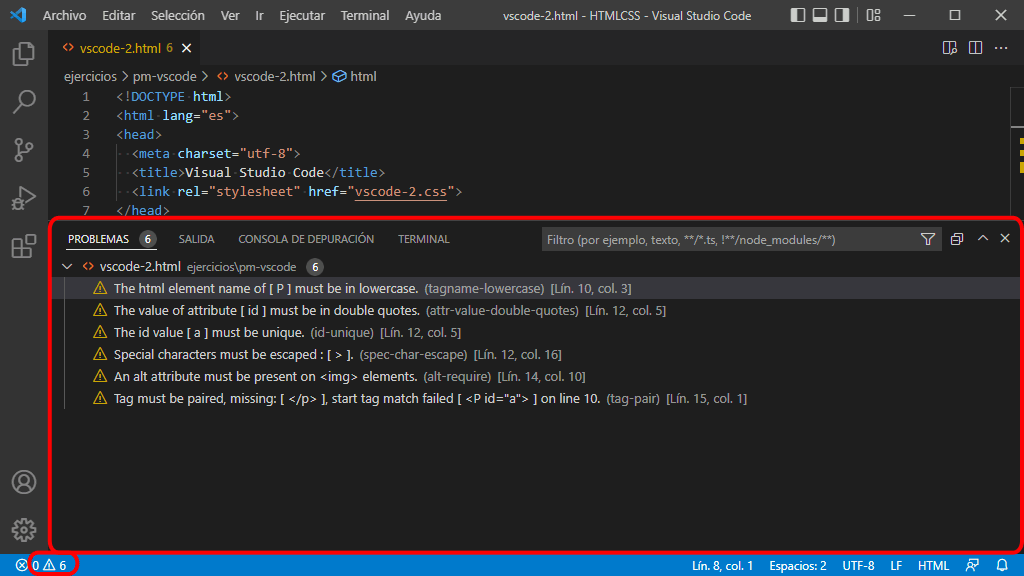
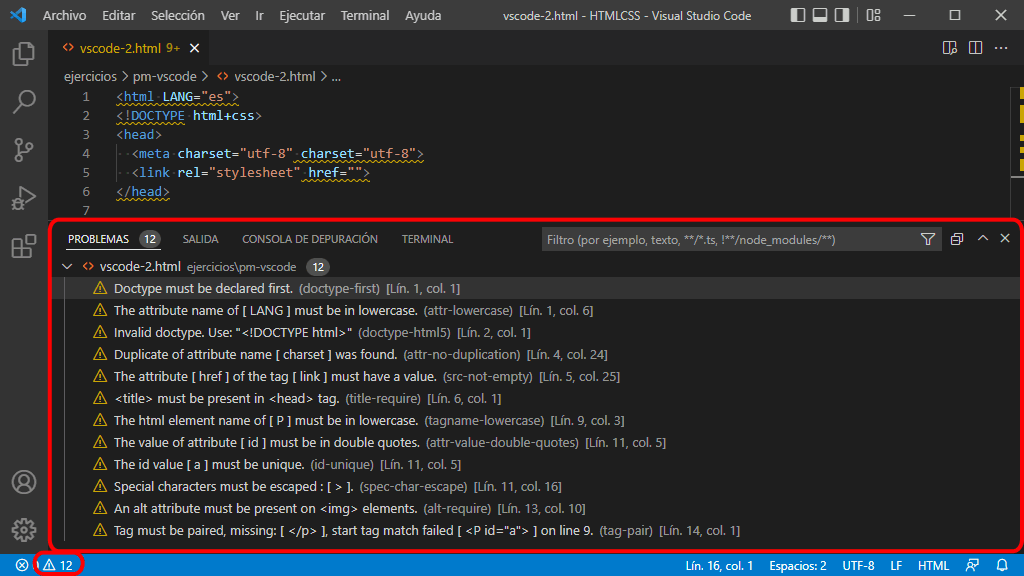
VSC Ejercicios Puesta en marcha: añado capturas

diff --git a/ejercicios/puesta-en-marcha/vscode/index.html b/ejercicios/puesta-en-marcha/vscode/index.html
@@ -70,7 +70,7 @@
   </section>
 
   <section id="ejercicio-1-b">
-    <h2>VS Code 1 A - Abrir páginas con Live Preview</h2>
+    <h2>VS Code 1 B - Abrir páginas con Live Preview</h2>
 
     <ol>
       <li>Abra en Visual Studio Code la página <strong>vscode-1.html</strong>.</li>
@@ -83,7 +83,7 @@
       <li>Compruebe que la dirección de la página es <strong>http://127.0.0.1:3000/ejercicios/pm-vscode/vscode-1.html</strong> o similar.</li>
       <li>Añada algo de texto a la página web y compruebe que aunque no guarde el fichero, en el navegador la vista se actualiza continuamente.
         <p class="mcl-captura">
-          <img src="../../../img/ejercicios/puesta-en-marcha/pm-vscode-live-preview-1.png" alt="VSC. Extensión Live Preview" width="1024" height="300">
+          <img src="../../../img/ejercicios/puesta-en-marcha/pm-vscode-live-preview-2.png" alt="VSC. Extensión Live Preview" width="1024" height="576">
         </p>
         <p>Lógicamente, Visual Studio Code mostrará un aviso de error hasta que escribamos la etiqueta de cierre <span class="html-eti">&lt;/p&gt;</span>.</p>
       </li>
@@ -94,7 +94,12 @@
     <h2>VS Code 2 - Extensión HTMLHint</h2>
 
     <ol>
-      <li>Cree en Visual Studio Code la página <strong>vscode-2.html</strong> en la carpeta .</li>
+      <li>Cree en Visual Studio Code la página <strong>vscode-2.html</strong> en la carpeta <strong>pm-vscode</strong>.</li>
+      <li>Comprube el fichero creado aparece en su posición correcta:
+        <p class="mcl-captura">
+          <img src="../../../img/ejercicios/puesta-en-marcha/pm-vscode-htmlhint-1.png" alt="VSC. Errores HTMLHint" width="1024" height="400">
+        </p>
+      </li>
       <li>Copie y pegue el siguiente código HTML en la página <strong>vscode-2.html</strong>:
         <div class="codigo">
           <pre>
@@ -117,15 +122,15 @@
 </pre>
         </div>
       </li>
-      <li>Compruebe que en la barra lateral inferior el indicador de error indica la existencia de 13 avisos. Haga clic en él para ver los errores detectados.
+      <li>Compruebe que en la barra lateral inferior el indicador de error indica la existencia de 12 avisos. Haga clic en él para ver los errores detectados.
         <p class="mcl-captura">
-          <img src="../../../img/ejercicios/puesta-en-marcha/pm-vscode-htmlhint-1.png" alt="VSC. Errores HTMLHint" width="1024" height="576">
+          <img src="../../../img/ejercicios/puesta-en-marcha/pm-vscode-htmlhint-2.png" alt="VSC. Errores HTMLHint" width="1024" height="576">
         </p>
         <p>Si no se muestran los 12 avisos, compruebe que la extensión HTMLHint está instalada y revise la configuración de la extensión HTMLHint, como se explica en la lección <a href="../../../otros/vsc-htmlcss-configuracion.html#htmlhint">Configuración de Visual Studio Code</a>.</p>
       </li>
       <li>Corrija algunos de los errores y compruebe que van desapareciendo de la lista a medida que se van corrigiendo:
         <p class="mcl-captura">
-          <img src="../../../img/ejercicios/puesta-en-marcha/pm-vscode-htmlhint-2.png" alt="VSC. Errores HTMLHint" width="1024" height="576">
+          <img src="../../../img/ejercicios/puesta-en-marcha/pm-vscode-htmlhint-3.png" alt="VSC. Errores HTMLHint" width="1024" height="576">
         </p>
       </li>
     </ol>
@@ -155,7 +160,7 @@ a { }
         </div>
       </li>
       <li>Compruebe que en la barra lateral inferior el indicador de error indica la existencia de 7 errores y avisos como mínimo. Haga clic en él para ver los errores detectados.
-        <p>El número de avisos puede ser mayor si incluye también los avisos del fichero vscode-2.html del ejercicio anterior. En general, Visual Studio Code muestra los avisos correspondientes a todos los ficheros que se han ido abriendo. Si cierra toda las pestañas de documentos con errores y cierra y abre Visual Studio Code desaparecerán los mensajes de error.</p>
+        <p><strong>Nota</strong>: El número de avisos puede ser mayor si incluye también los avisos del fichero vscode-2.html del ejercicio anterior. En general, Visual Studio Code muestra los avisos correspondientes a todos los ficheros que se han ido abriendo. Si cierra toda las pestañas de documentos con errores y cierra y abre Visual Studio Code, desaparecerán los mensajes de error hasta que vuelva a abrirlos.</p>
         <p class="mcl-captura">
           <img src="../../../img/ejercicios/puesta-en-marcha/pm-vscode-csslint-1.png" alt="VSC. Errores CSS Lint" width="1024" height="576">
         </p>
@@ -171,15 +176,15 @@ a { }
       <li>Borre la etiqueta de cierre <span class="html-eti">&lt;/p&gt;</span> (línea 13).</li>
       <li>Compruebe que en la barra lateral inferior el indicador de error indica la existencia de un error. Haga clic en él para ver el error detectado. Compruebe que efectivamente señala la ausencia del cierre de la etiqueta <span class="html-eti">&lt;p&gt;</span>
         <p class="mcl-captura">
-          <img src="../../../img/ejercicios/puesta-en-marcha/pm-vscode-close-html-tag-1.png" alt="VSC. Error HTMLHint" width="1024" height="300">
+          <img src="../../../img/ejercicios/puesta-en-marcha/pm-vscode-close-html-tag-1.png" alt="VSC. Error Close HTML/XML Tag" width="1024" height="300">
         </p>
         <p>Si no se muestra el error, compruebe que la extensión HTMLHint está instalada y revise la configuración de la extensión HTMLHint, como se explica en la lección <a href="../../../otros/vsc-htmlcss-configuracion.html#htmlhint">Configuración de Visual Studio Code</a>.</p>
       </li>
       <li>Corrija el error situando el cursor al final del párrafo y pulsando el atajo de teclado <span class="soft-atajo-teclado">Alt+.</span>. Compruebe que se añade el cierre de la etiqueta <span class="html-eti">&lt;/p&gt;</span>. Compruebe que el indicador de error ya no muestra ningún error.
         <p class="mcl-captura">
-          <img src="../../../img/ejercicios/puesta-en-marcha/pm-vscode-close-html-tag-2.png" alt="VSC. Error HTMLHint" width="1024" height="300">
+          <img src="../../../img/ejercicios/puesta-en-marcha/pm-vscode-close-html-tag-2.png" alt="VSC. Error Close HTML/XML Tag" width="1024" height="300">
         </p>
-        <p>Si no se añade la etiqueta , compruebe que la extensión Close HTML/XML Tag está instalada y revise la configuración de la extensión Close HTML/XML Tag, como se explica en la lección <a href="../../../otros/vsc-htmlcss-configuracion.html#close-html-xml-tag">Configuración de Visual Studio Code</a>.</p>
+        <p>Si no se añade la etiqueta, compruebe que la extensión Close HTML/XML Tag está instalada y revise la configuración de la extensión Close HTML/XML Tag, como se explica en la lección <a href="../../../otros/vsc-htmlcss-configuracion.html#close-html-xml-tag">Configuración de Visual Studio Code</a>.</p>
       </li>
     </ol>
   </section>
@@ -189,12 +194,26 @@ a { }
 
     <ol>
       <li>Abra en Visual Studio Code la página <strong>vscode-5.html</strong>.</li>
-      <li>Compruebe que el texto de la línea 11 no está rodeado de etiquetas.</li>
-      <li>Seleccione el texto de la línea 11 (sin los espacios iniciales).</li>
-      <li>Pulse el atajo de teclado <span class="soft-atajo-teclado">Alt+Máy+i</span>. Compruebe que se abre un cuadro de texto en la parte superior, escriba <strong>h2</strong> y pulse Intro.
-        <p>Si la línea 11 no aparece rodeada de la etiqueta <span class="html-eti">&lt;h2&gt;</span>, compruebe que la extensión Tag Inserter está instalada.</p>
+      <li>Compruebe que el texto de la línea 11 no está rodeado de etiquetas (sin contar las etiquetas &lt;<span class="html-eti">html</span>&gt; o &lt;<span class="html-eti">body</span>&gt;).
+        <p class="mcl-captura">
+          <img src="../../../img/ejercicios/puesta-en-marcha/pm-vscode-tag-inserter-1.png" alt="VSC. Extensión Tag Inserter" width="1024" height="380">
+        </p>
+      </li>
+      <li>Seleccione el texto de la línea 11 (únicamente el texto, sin los espacios iniciales de la línea ni el salto de línea final).</li>
+      <li>Pulse el atajo de teclado <span class="soft-atajo-teclado">Alt+Máy+i</span>. Compruebe que se abre un cuadro de texto en la parte superior, escriba únicamente el nombre de la etiqueta, por ejemplo <strong>h2</strong>, y pulse Intro.
+        <p class="mcl-captura">
+          <img src="../../../img/ejercicios/puesta-en-marcha/pm-vscode-tag-inserter-2.png" alt="VSC. Error Tag Inserter" width="1024" height="380">
+        </p>
+      </li>
+      <li>Si la línea 11 no aparece rodeada de la etiqueta <span class="html-eti">&lt;h2&gt;</span>, compruebe que la extensión Tag Inserter está instalada.
+        <p class="mcl-captura">
+          <img src="../../../img/ejercicios/puesta-en-marcha/pm-vscode-tag-inserter-3.png" alt="VSC. Error Tag Inserter" width="1024" height="380">
+        </p>
       </li>
       <li>Sitúe el cursor en la etiqueta <span class="html-eti">&lt;h2&gt;</span>. Compruebe que aparece un segundo cursor en la etiqueta de cierre. Borre el nombre de la etiqueta (sin borrar las desigualdades &lt; &gt;) y corríjalo por <span class="html-eti">&lt;h1&gt;</span>. Compruebe que se cambia simultáneamente la etiqueta de cierre <span class="html-eti">&lt;/h1&gt;</span>.
+        <p class="mcl-captura">
+          <img src="../../../img/ejercicios/puesta-en-marcha/pm-vscode-tag-inserter-4.png" alt="VSC. Error Tag Inserter" width="1024" height="380">
+        </p>
         <p>Compruebe que también puede modificar ambas etiquetas editando la etiqueta de cierre.</p>
       </li>
     </ol>
@@ -216,14 +235,23 @@ a { }
           </div>
         </div>
       </li>
+      <li>Compruebe que la etiqueta &lt;<span class="html-eti">img</span>&gt; no contiene los atributos <span class="html-atri">width</span> ni <span class="html-atri">height</span>:
+        <p class="mcl-captura">
+          <img src="../../../img/ejercicios/puesta-en-marcha/pm-vscode-image-preview-emmet-1.png" alt="VSC. Atributos width y height en imagen" width="1024" height="200">
+        </p>
+      </li>
       <li>Sitúe el cursor encima del nombre de la imagen y observe como se muestra una ventana que contiene una miniatura de la imagen y su tamaño.
         <p>Si no se muestra la ventana, compruebe que la extensión Image Preview está instalada.</p>
-        <p><img src="../../../varios/iconos/icono-warning.svg" alt="¡Atención!" title="¡Atención!" width="55" height="48"><strong>Nota</strong>: Debido a cambios en Visual Studio Code, la extensión Image Preview deja de funcionar correctamente hasta que el autor publica una nueva versión corrigiendo el problema. Desafortunadamente, parece que actualmente (abril de 2022), la extensión no funciona por lo que probablemente no se vea la miniatura de la imagen.</p>
+        <p><img src="../../../varios/iconos/icono-warning.svg" alt="¡Atención!" title="¡Atención!" width="55" height="48"><strong>Nota</strong>: Debido a cambios en Visual Studio Code, la extensión Image Preview deja de funcionar correctamente hasta que el autor publica una nueva versión corrigiendo el problema. Desafortunadamente, parece que actualmente (abril de 2022), la extensión no funciona, por lo que probablemente no se vea la miniatura de la imagen.</p>
       </li>
-      <li>Haga clic en algún lugar de la etiqueta &lt;<span class="html-eti">img</span>&gt;. Pulse el atajo <span class="soft-atajo-teclado">Ctrl+Alt+e Ctrl+Alt+t</span> y compruebe que se añaden los atributos <span class="html-atri">width</span> = <span class="html-atri-valor">100</span> y <span class="html-atri">height</span> = <span class="html-atri-valor">100</span>.</li>
+      <li>Haga clic en algún lugar de la etiqueta &lt;<span class="html-eti">img</span>&gt;. Pulse el atajo <span class="soft-atajo-teclado">Ctrl+Alt+e Ctrl+Alt+t</span> y compruebe que se añaden los atributos <span class="html-atri">width</span> = <span class="html-atri-valor">100</span> y <span class="html-atri">height</span> = <span class="html-atri-valor">100</span>.
+        <p class="mcl-captura">
+          <img src="../../../img/ejercicios/puesta-en-marcha/pm-vscode-image-preview-emmet-2.png" alt="VSC. Atributos width y height en imagen" width="1024" height="200">
+        </p>
+      </li>
       <li>Guarde la página en Visual Studio Code y actualice la página en el navegador. Compruebe que la imagen ya se muestra al tamaño 100px x 100px.
         <p class="mcl-captura">
-          <img src="../../../img/ejercicios/puesta-en-marcha/pm-vscode-emmet-image-size-1.png" alt="VSC. Atributos width y height en imagen" width="1014" height="230">
+          <img src="../../../img/ejercicios/puesta-en-marcha/pm-vscode-image-preview-emmet-3.png" alt="VSC. Atributos width y height en imagen" width="1014" height="230">
         </p>
       </li>
     </ol>
@@ -260,7 +288,7 @@ a { }
       <li>Pulse el atajo <span class="soft-atajo-teclado">Alt+Máy+c Alt+Máy+f</span> y compruebe que se formatea más o menos correctamente la hoja de estilo (una propiedad por línea, etiquetas en minúsculas, un espacio de separación, orden de etiquetas, punto y coma tras cada propiedad, etc).
         <div class="codigo">
           <pre>
-<code class="language-css">     body {
+<code class="language-css">body {
   background-color: wheat;
   font-family: sans-serif    ;
 }
@@ -273,9 +301,16 @@ h1 {
 </pre>
         </div>
         <p>Si no obtiene este resultado, compruebe que la extensión CSScomb está instalada y revise la configuración de la extensión CSScomb, como se explica en la lección <a href="../../../otros/vsc-htmlcss-configuracion.html#csscomb">Configuración de Visual Studio Code</a>.</p>
-        <p><img src="../../../varios/iconos/icono-warning.svg" alt="¡Atención!" title="¡Atención!" width="55" height="48"> <strong>Nota</strong>: CSSComb no corrige los espacios iniciales de la primera línea y añade un segundo punto y coma en la propiedad reordenada que antes no tenía punto y coma. El 16/10/2019 abrí dos <i>issues</i> (<a href="https://github.com/csscomb/csscomb.js/issues/621">csscomb#621</a> y <a href="https://github.com/csscomb/csscomb.js/issues/622">csscomb#622</a>) en el repositorio del proyecto CSSComb para aclarar si es un problema de CSSComb o de la configuración propuesta en estos apuntes. Pero hasta que el desarrollo del proyecto CSSComb no se retome, estos problemas no tendrán solución y se deberán corregir manualmente.</p>
+
+        <p><img src="../../../varios/iconos/icono-warning.svg" alt="¡Atención!" title="¡Atención!" width="55" height="48"> <strong>Notas</strong>: CSSComb mejora el formato de la hoja de estilo, pero no corrige todas las situaciones:</p>
+        <ul>
+          <li>CSSComb añade un segundo punto y coma en la propiedad reordenada que antes no tenía punto y coma. El 16/10/2019 abrí la <i>issue</i> <a href="https://github.com/csscomb/csscomb.js/issues/622">csscomb#622</a> en el repositorio del proyecto CSSComb para aclarar si es un problema de CSSComb o de la configuración propuesta en estos apuntes. Pero hasta que el desarrollo del proyecto CSSComb no se retome, estos problemas no tendrán solución y se deberán corregir manualmente.</li>
+          <li>CSSComb mantiene separado con espacios el punto y coma de una de las propiedades.</li>
+          <li>En 2019 CSSComb no corregía los espacios iniciales de la primera línea. El 16/10/2019 abrí la <i>issue</i> <a href="https://github.com/csscomb/csscomb.js/issues/621">csscomb#621</a> en el repositorio del proyecto CSSComb para aclarar si es un problema de CSSComb o de la configuración propuesta en estos apuntes. Este problema parece resuelto.</li>
+        </ul>
       </li>
       <li>Guarde la hoja de estilo y actualice la página en el navegador. Compruebe que la página se ve exactamente igual que antes.</li>
+      <li>A partir de la versión 1.66, Visual Studio Code ha incorporado un formateador de CSS que se aplica con el atajo de teclado <span class="soft-atajo-teclado">Alt+Máy+f</span>. Es un formateador más elemental que CSSComb, pero se pueden combinar ambos formateadores para obtener un mejor resultado. Pruebe el resultado sobre el ejemplo anterior, apicando consecutivamente uno y otro de forma repetida hasta dejar de obtener cambios.</li>
     </ol>
   </section>
 

diff --git a/otros/vsc-htmlcss-configuracion.html b/otros/vsc-htmlcss-configuracion.html
@@ -155,7 +155,7 @@
 
       <p>Para abrir la Vista previa, haga clic derecho en la página y elija la opción "Live Preview: Show Preview". la pantalla se dividirá, mostrando la página en la parte derecha.</p>
 
-      <p>Uno de los <a href="#atajos-teclado">atajos de teclado recomendados</a> permite abrir esa vista previa con el atajo de teclado <kbd>Ctrl + Alt + p</kbd>.</p>
+      <p>Uno de los <a href="#atajos-teclado">atajos de teclado recomendados</a> permite abrir esa vista previa con el atajo de teclado <kbd>Ctrl+Alt+p</kbd>.</p>
     </section>
 
 
